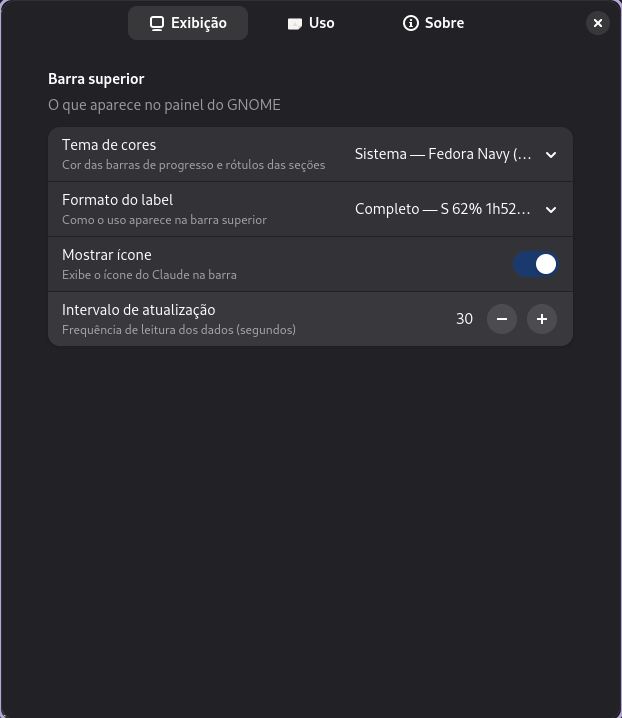
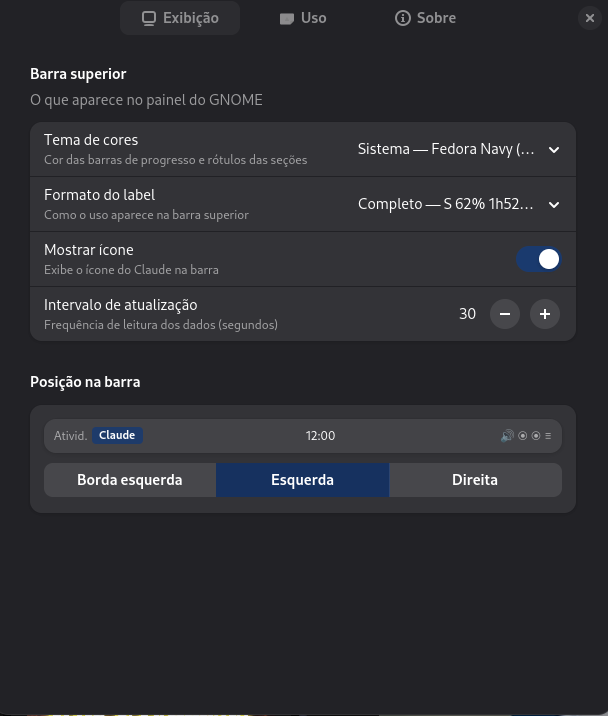
docs: adiciona screenshots do seletor visual e posições na barra

diff --git a/README.md b/README.md
@@ -41,18 +41,19 @@ Escolha o formato que prefere nas preferências da extensão:
 
 ## Posição na barra
 
-O seletor de posição exibe uma mini barra de preview mostrando exatamente onde o
+O seletor de posição exibe uma mini barra interativa mostrando exatamente onde o
 indicador ficará antes de confirmar a escolha:
+
+![Seletor de posição](docs/prefs-display.png)
 
 | Opção | Resultado na barra |
 |---|---|
-| **Borda esquerda** | `[Claude] [Ativid.] ─── 12:00 ─── [🔊][●][●][☰]` |
-| **Esquerda** | `[Ativid.] [Claude] ─── 12:00 ─── [🔊][●][●][☰]` |
-| **Direita** | `[Ativid.] ──────── 12:00 ─── [Claude] [🔊][●][●][☰]` |
+| **Borda esquerda** | ![topbar borda esquerda](docs/topbar-position-left-edge.png) |
+| **Esquerda** | ![topbar esquerda](docs/topbar-position-left.png) |
+| **Direita** | Imediatamente à esquerda dos ícones nativos (volume, rede, bateria, menu) |
 
-> Os ícones nativos do GNOME (volume, rede, bateria, menu) ficam sempre na direita
-> e não podem ser movidos por extensões — a opção **Direita** coloca o indicador
-> imediatamente à esquerda deles.
+> Os ícones nativos do GNOME ficam sempre fixos na direita — extensões não podem
+> ultrapassá-los. A opção **Direita** coloca o indicador logo à esquerda deles.
 
 A posição é aplicada ao vivo ao mudar — sem precisar reiniciar a extensão.
 
